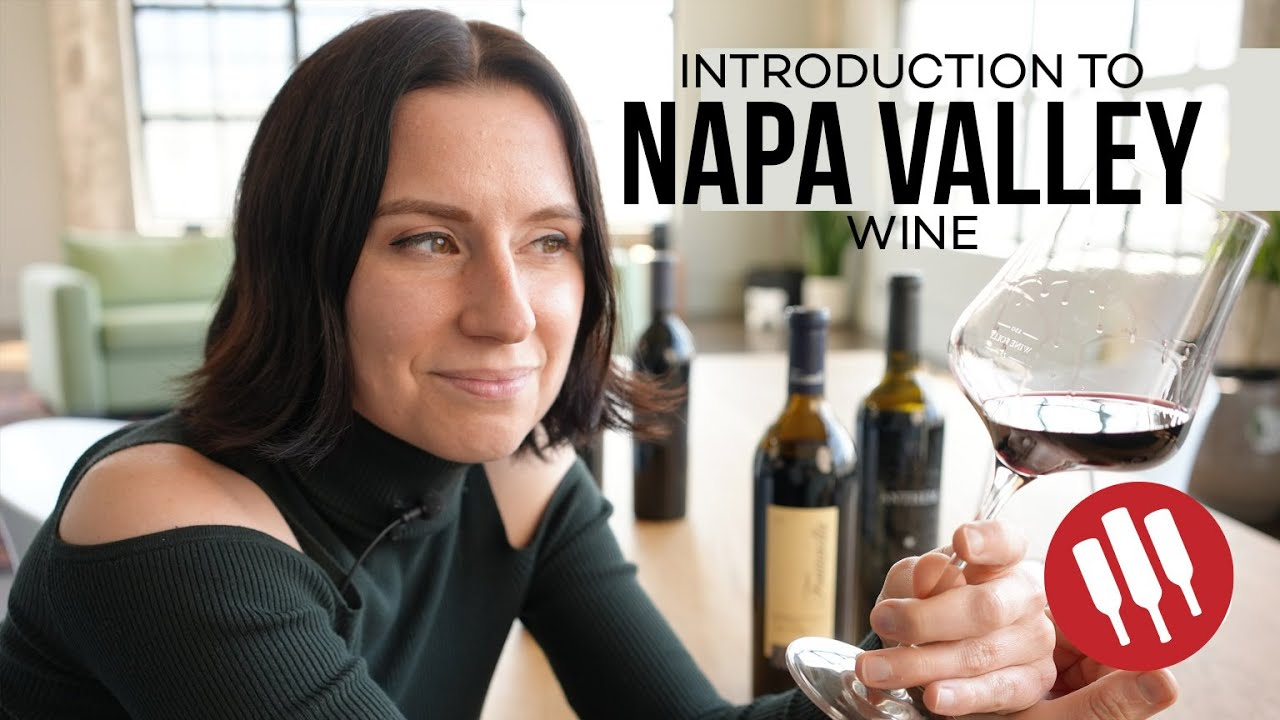
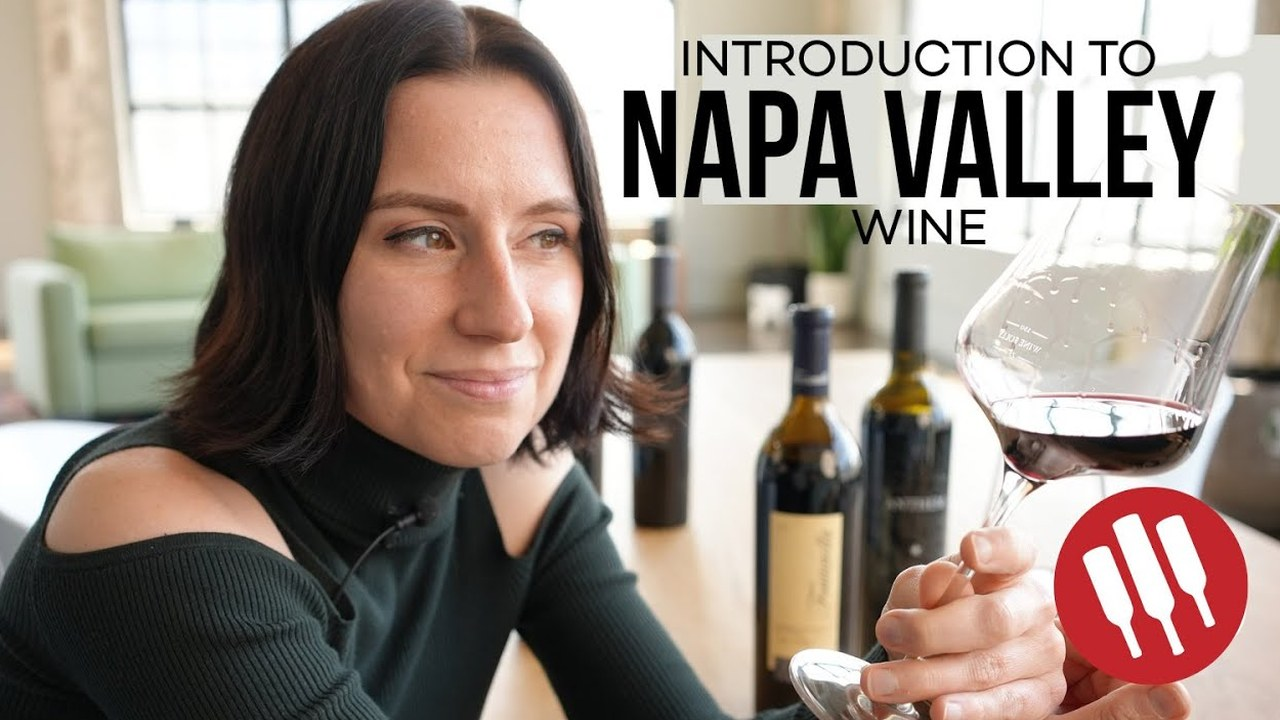
Study Guide: photos for read-only lessons, progress, fixes
Tommy: "Fix the read sections. Fix these things that are cut off … the videos seem like they have this black line
around them … give it some sort of image … show … a percentage of the course has been completed … green check mark".
- 22 lessons without a video open with a photo (Unsplash stand-ins, content/research/study-photos.json)
- Level 1 shows % done; finished lessons and sections are grayed with a green check; the hub's Resume shows the %
- YouTube thumbnails: 16:9 versions, black edges cropped; play buttons centred; card pills and hero buttons unclipped
- steps and tiles in lessons sit in an even grid (five steps no longer run off the card)

diff --git a/src/styles.css b/src/styles.css
@@ -1160,3 +1160,18 @@ body.eip-lock { overflow: hidden; }
   [data-name^="Stop "] > [data-name="Rail"] { flex: 0 0 34px !important; width: 34px !important; align-self: stretch !important; }
   [data-name^="Stop "] > [data-name="Body"] { flex: 1 1 0 !important; min-width: 0; width: auto !important; }
 }
+/* YouTube thumbnails carry thin black edges: crop them off (Nov 1, Tommy: "the videos seem like they have this black line around them") */
+[style*="i.ytimg.com"] { background-size: 106% auto !important; background-position: center !important; }
+/* play buttons and lengths stay centred / in the corner however tall the thumbnail draws */
+[data-name^="IMG/"] > [data-name="Play"], [data-name^="Video slot"] > [data-name="Play"] { top: 50% !important; left: 50% !important; transform: translate(-50%, -50%); }
+[data-name^="IMG/"] > [data-name="Duration"] { top: auto !important; left: auto !important; right: 8px; bottom: 8px; }
+/* photo cards and the hero buttons size to their words, so nothing is clipped */
+[data-name^="Level "] > [data-name="Copy"], [data-name^="Part "] > [data-name="Copy"] { height: auto !important; }
+[data-name="Hero"] [data-name="Buttons"] > *, [data-name="Hero"] [data-name="Buttons"] > [data-name^="Video · "] { height: auto !important; min-height: 0 !important; overflow: visible !important; }
+/* lesson visuals: steps and tiles as an even grid in the reading column (5 steps = 3 + 2) */
+[data-name^="Grid · "] { display: grid !important; gap: 8px !important; width: 100% !important; }
+[data-name="Grid · 2"] { grid-template-columns: repeat(2, minmax(0, 1fr)); }
+[data-name="Grid · 3"] { grid-template-columns: repeat(3, minmax(0, 1fr)); }
+[data-name="Grid · 4"] { grid-template-columns: repeat(4, minmax(0, 1fr)); }
+[data-name^="Grid · "] > * { width: auto !important; min-width: 0; height: auto !important; }
+@media (max-width: 600px) { [data-name^="Grid · "] { grid-template-columns: repeat(2, minmax(0, 1fr)) !important; } }
